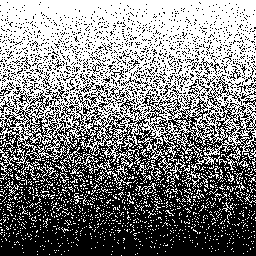
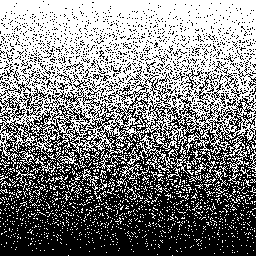
implement error diffusion methods

diff --git a/ImageLib/ImageHalftoning.cs b/ImageLib/ImageHalftoning.cs
@@ -123,5 +123,184 @@ namespace ImageLib
 
             return destImage;
         }
+
+        /// <summary>
+        /// 誤差拡散のパターン(教科書の数値)
+        /// </summary>
+        private static readonly int[,] ErrorDiffusionPatternDefault = new int[2, 3] {
+            { 0, 0, 5 },
+            { 3, 5, 3 }
+        };
+
+        /// <summary>
+        /// Floyd-Steinberg型の誤差拡散のパターン
+        /// </summary>
+        private static readonly int[,] FloydSteinbergDiffusionPattern = new int[2, 3] {
+            { 0, 0, 7 },
+            { 1, 3, 5 }
+        };
+
+        /// <summary>
+        /// Jarvis, Judice & Ninke型の誤差拡散のパターン
+        /// </summary>
+        private static readonly int[,] JarvisJudiceNinkeDiffusionPattern = new int[3, 5] {
+            { 0, 0, 0, 7, 5 },
+            { 3, 5, 7, 5, 3 },
+            { 1, 3, 5, 3, 1 }
+        };
+
+        /// <summary>
+        /// Stucki型の誤差拡散のパターン
+        /// </summary>
+        private static readonly int[,] StuckiDiffusionPattern = new int[3, 5] {
+            { 0, 0, 0, 8, 4 },
+            { 2, 4, 8, 4, 2 },
+            { 1, 2, 4, 2, 1 }
+        };
+
+        /// <summary>
+        /// Burkes型の誤差拡散のパターン
+        /// </summary>
+        private static readonly int[,] BurkesDiffusionPattern = new int[2, 5] {
+            { 0, 0, 0, 8, 4 },
+            { 2, 4, 8, 4, 2 }
+        };
+
+        /// <summary>
+        /// Sierra型の誤差拡散のパターン
+        /// </summary>
+        private static readonly int[,] SierraDiffusionPattern = new int[3, 5] {
+            { 0, 0, 0, 5, 3 },
+            { 2, 4, 5, 4, 2 },
+            { 0, 2, 3, 2, 0 }
+        };
+
+        /// <summary>
+        /// Two-Row Sierra型の誤差拡散のパターン
+        /// </summary>
+        private static readonly int[,] TwoRowSierraDiffusionPattern = new int[2, 5] {
+            { 0, 0, 0, 4, 3 },
+            { 1, 2, 3, 2, 1 }
+        };
+
+        /// <summary>
+        /// Sierra Lite型の誤差拡散のパターン
+        /// </summary>
+        private static readonly int[,] SierraLiteDiffusionPattern = new int[2, 3] {
+            { 0, 0, 2 },
+            { 1, 1, 0 }
+        };
+
+        /// <summary>
+        /// 誤差拡散法(教科書の数値)
+        /// </summary>
+        /// <param name="sourceImage">画像の2次元配列</param>
+        /// <returns>結果の2次元配列</returns>
+        public static byte[,] ErrorDiffusionDitheringDefault(byte[,] sourceImage)
+            => ImageHalftoning.ErrorDiffusionDithering(sourceImage, ImageHalftoning.ErrorDiffusionPatternDefault, 1);
+
+        /// <summary>
+        /// 誤差拡散法(Floyd-Steinberg型)
+        /// </summary>
+        /// <param name="sourceImage">画像の2次元配列</param>
+        /// <returns>結果の画像の2次元配列</returns>
+        public static byte[,] FloydSteinbergDithering(byte[,] sourceImage)
+            => ImageHalftoning.ErrorDiffusionDithering(sourceImage, ImageHalftoning.FloydSteinbergDiffusionPattern, 1);
+
+        /// <summary>
+        /// 誤差拡散法(Jarvis, Judice & Ninke型)
+        /// </summary>
+        /// <param name="sourceImage">画像の2次元配列</param>
+        /// <returns>結果の画像の2次元配列</returns>
+        public static byte[,] JarvisJudiceNinkeDithering(byte[,] sourceImage)
+            => ImageHalftoning.ErrorDiffusionDithering(sourceImage, ImageHalftoning.JarvisJudiceNinkeDiffusionPattern, 2);
+
+        /// <summary>
+        /// 誤差拡散法(Stucki型)
+        /// </summary>
+        /// <param name="sourceImage">画像の2次元配列</param>
+        /// <returns>結果の画像の2次元配列</returns>
+        public static byte[,] StuckiDithering(byte[,] sourceImage)
+            => ImageHalftoning.ErrorDiffusionDithering(sourceImage, ImageHalftoning.StuckiDiffusionPattern, 2);
+
+        /// <summary>
+        /// 誤差拡散法(Burkes型)
+        /// </summary>
+        /// <param name="sourceImage">画像の2次元配列</param>
+        /// <returns>結果の画像の2次元配列</returns>
+        public static byte[,] BurkesDithering(byte[,] sourceImage)
+            => ImageHalftoning.ErrorDiffusionDithering(sourceImage, ImageHalftoning.BurkesDiffusionPattern, 2);
+
+        /// <summary>
+        /// 誤差拡散法(Sierra型)
+        /// </summary>
+        /// <param name="sourceImage">画像の2次元配列</param>
+        /// <returns>結果の画像の2次元配列</returns>
+        public static byte[,] SierraDithering(byte[,] sourceImage)
+            => ImageHalftoning.ErrorDiffusionDithering(sourceImage, ImageHalftoning.SierraDiffusionPattern, 2);
+
+        /// <summary>
+        /// 誤差拡散法(Two-Row Sierra型)
+        /// </summary>
+        /// <param name="sourceImage">画像の2次元配列</param>
+        /// <returns>結果の画像の2次元配列</returns>
+        public static byte[,] TwoRowSierraDithering(byte[,] sourceImage)
+            => ImageHalftoning.ErrorDiffusionDithering(sourceImage, ImageHalftoning.TwoRowSierraDiffusionPattern, 2);
+
+        /// <summary>
+        /// 誤差拡散法(Sierra Lite型)
+        /// </summary>
+        /// <param name="sourceImage">画像の2次元配列</param>
+        /// <returns>結果の画像の2次元配列</returns>
+        public static byte[,] SierraLiteDithering(byte[,] sourceImage)
+            => ImageHalftoning.ErrorDiffusionDithering(sourceImage, ImageHalftoning.SierraLiteDiffusionPattern, 1);
+
+        /// <summary>
+        /// 誤差拡散法
+        /// </summary>
+        /// <param name="sourceImage">画像の2次元配列</param>
+        /// <param name="errorDiffusionPattern">誤差拡散のパターンの2次元配列</param>
+        /// <param name="centerPositionX">誤差拡散のパターンにおける中心画素の位置</param>
+        /// <returns>結果の2次元配列</returns>
+        public static byte[,] ErrorDiffusionDithering(
+            byte[,] sourceImage, int[,] errorDiffusionPattern, int centerPositionX)
+        {
+            int imageWidth = sourceImage.GetLength(0);
+            int imageHeight = sourceImage.GetLength(1);
+            int patternWidth = errorDiffusionPattern.GetLength(1);
+            int patternHeight = errorDiffusionPattern.GetLength(0);
+            int patternValueSum = errorDiffusionPattern.Cast<int>().Sum();
+
+            byte[,] destImage = new byte[imageWidth, imageHeight];
+            int[,] errorDiffusion = new int[patternHeight, imageWidth + patternWidth - 1];
+            int pixelValue;
+            int errorValue;
+
+            for (int y = 0; y < imageHeight; ++y) {
+                for (int x = 0; x < imageWidth; ++x) {
+                    pixelValue = sourceImage[x, y] + errorDiffusion[0, x + centerPositionX] / patternValueSum;
+
+                    if (pixelValue >= 128)
+                        destImage[x, y] = 255;
+                    else
+                        destImage[x, y] = 0;
+
+                    errorValue = pixelValue - destImage[x, y];
+
+                    for (int n = 0; n < patternHeight; ++n)
+                        for (int m = 0; m < patternWidth; ++m)
+                            errorDiffusion[n, x + m] += errorValue * errorDiffusionPattern[n, m];
+                }
+
+                for (int m = 0; m < imageWidth + patternWidth - 1; ++m) {
+                    for (int n = 0; n < patternHeight - 1; ++n)
+                        errorDiffusion[n, m] = errorDiffusion[n + 1, m];
+
+                    errorDiffusion[patternHeight - 1, m] = 0;
+                }
+            }
+
+            return destImage;
+        }
     }
 }

diff --git a/ProbA3/ProbA3.cs b/ProbA3/ProbA3.cs
@@ -27,6 +27,14 @@ namespace ProbA3
             ProbA3.SpiralDitheringAndSave(fileName, sourceImage);
             ProbA3.HalftoneDitheringAndSave(fileName, sourceImage);
             ProbA3.RandomDitheringAndSave(fileName, sourceImage);
+            ProbA3.ErrorDiffusionDitheringDefaultAndSave(fileName, sourceImage);
+            ProbA3.FloydSteinbergDitheringAndSave(fileName, sourceImage);
+            ProbA3.JarvisJudiceNinkeDitheringAndSave(fileName, sourceImage);
+            ProbA3.StuckiDitheringAndSave(fileName, sourceImage);
+            ProbA3.BurkesDitheringAndSave(fileName, sourceImage);
+            ProbA3.SierraDitheringAndSave(fileName, sourceImage);
+            ProbA3.TwoRowSierraDitheringAndSave(fileName, sourceImage);
+            ProbA3.SierraLiteDitheringAndSave(fileName, sourceImage);
 
             Console.ReadKey();
         }
@@ -73,6 +81,78 @@ namespace ProbA3
             Utility.SaveGrayscaleImage(resultImage, newFilePath);
 
             Console.WriteLine($"Random dithering done and saved to \'{newFilePath}\'");
+        }
+
+        public static void ErrorDiffusionDitheringDefaultAndSave(string sourceFilePath, byte[,] sourceImage)
+        {
+            byte[,] resultImage = ImageHalftoning.ErrorDiffusionDitheringDefault(sourceImage);
+            string newFilePath = ProbA3.NewFilePath(sourceFilePath, "ErrorDiffusionDitheringDefault");
+            Utility.SaveGrayscaleImage(resultImage, newFilePath);
+
+            Console.WriteLine($"Error diffusion dithering done and saved to \'{newFilePath}\'");
+        }
+
+        public static void FloydSteinbergDitheringAndSave(string sourceFilePath, byte[,] sourceImage)
+        {
+            byte[,] resultImage = ImageHalftoning.FloydSteinbergDithering(sourceImage);
+            string newFilePath = ProbA3.NewFilePath(sourceFilePath, "FloydSteinbergDithering");
+            Utility.SaveGrayscaleImage(resultImage, newFilePath);
+
+            Console.WriteLine($"Floyd-Steinberg dithering done and saved to \'{newFilePath}\'");
+        }
+
+        public static void JarvisJudiceNinkeDitheringAndSave(string sourceFilePath, byte[,] sourceImage)
+        {
+            byte[,] resultImage = ImageHalftoning.JarvisJudiceNinkeDithering(sourceImage);
+            string newFilePath = ProbA3.NewFilePath(sourceFilePath, "JarvisJudiceNinkeDithering");
+            Utility.SaveGrayscaleImage(resultImage, newFilePath);
+
+            Console.WriteLine($"Jarvis, Judice & Ninke dithering done and saved to \'{newFilePath}\'");
+        }
+
+        public static void StuckiDitheringAndSave(string sourceFilePath, byte[,] sourceImage)
+        {
+            byte[,] resultImage = ImageHalftoning.StuckiDithering(sourceImage);
+            string newFilePath = ProbA3.NewFilePath(sourceFilePath, "StuckiDithering");
+            Utility.SaveGrayscaleImage(resultImage, newFilePath);
+
+            Console.WriteLine($"Stucki dithering done and saved to \'{newFilePath}\'");
+        }
+
+        public static void BurkesDitheringAndSave(string sourceFilePath, byte[,] sourceImage)
+        {
+            byte[,] resultImage = ImageHalftoning.BurkesDithering(sourceImage);
+            string newFilePath = ProbA3.NewFilePath(sourceFilePath, "BurkesDithering");
+            Utility.SaveGrayscaleImage(resultImage, newFilePath);
+
+            Console.WriteLine($"Burkes dithering done and saved to \'{newFilePath}\'");
+        }
+
+        public static void SierraDitheringAndSave(string sourceFilePath, byte[,] sourceImage)
+        {
+            byte[,] resultImage = ImageHalftoning.SierraDithering(sourceImage);
+            string newFilePath = ProbA3.NewFilePath(sourceFilePath, "SierraDithering");
+            Utility.SaveGrayscaleImage(resultImage, newFilePath);
+
+            Console.WriteLine($"Sierra dithering done and saved to \'{newFilePath}\'");
+        }
+
+        public static void TwoRowSierraDitheringAndSave(string sourceFilePath, byte[,] sourceImage)
+        {
+            byte[,] resultImage = ImageHalftoning.TwoRowSierraDithering(sourceImage);
+            string newFilePath = ProbA3.NewFilePath(sourceFilePath, "TwoRowSierraDithering");
+            Utility.SaveGrayscaleImage(resultImage, newFilePath);
+
+            Console.WriteLine($"Two-row Sierra dithering done and saved to \'{newFilePath}\'");
+        }
+
+        public static void SierraLiteDitheringAndSave(string sourceFilePath, byte[,] sourceImage)
+        {
+            byte[,] resultImage = ImageHalftoning.SierraLiteDithering(sourceImage);
+            string newFilePath = ProbA3.NewFilePath(sourceFilePath, "SierraLiteDithering");
+            Utility.SaveGrayscaleImage(resultImage, newFilePath);
+
+            Console.WriteLine($"Sierra lite dithering done and saved to \'{newFilePath}\'");
         }
     }
 }
